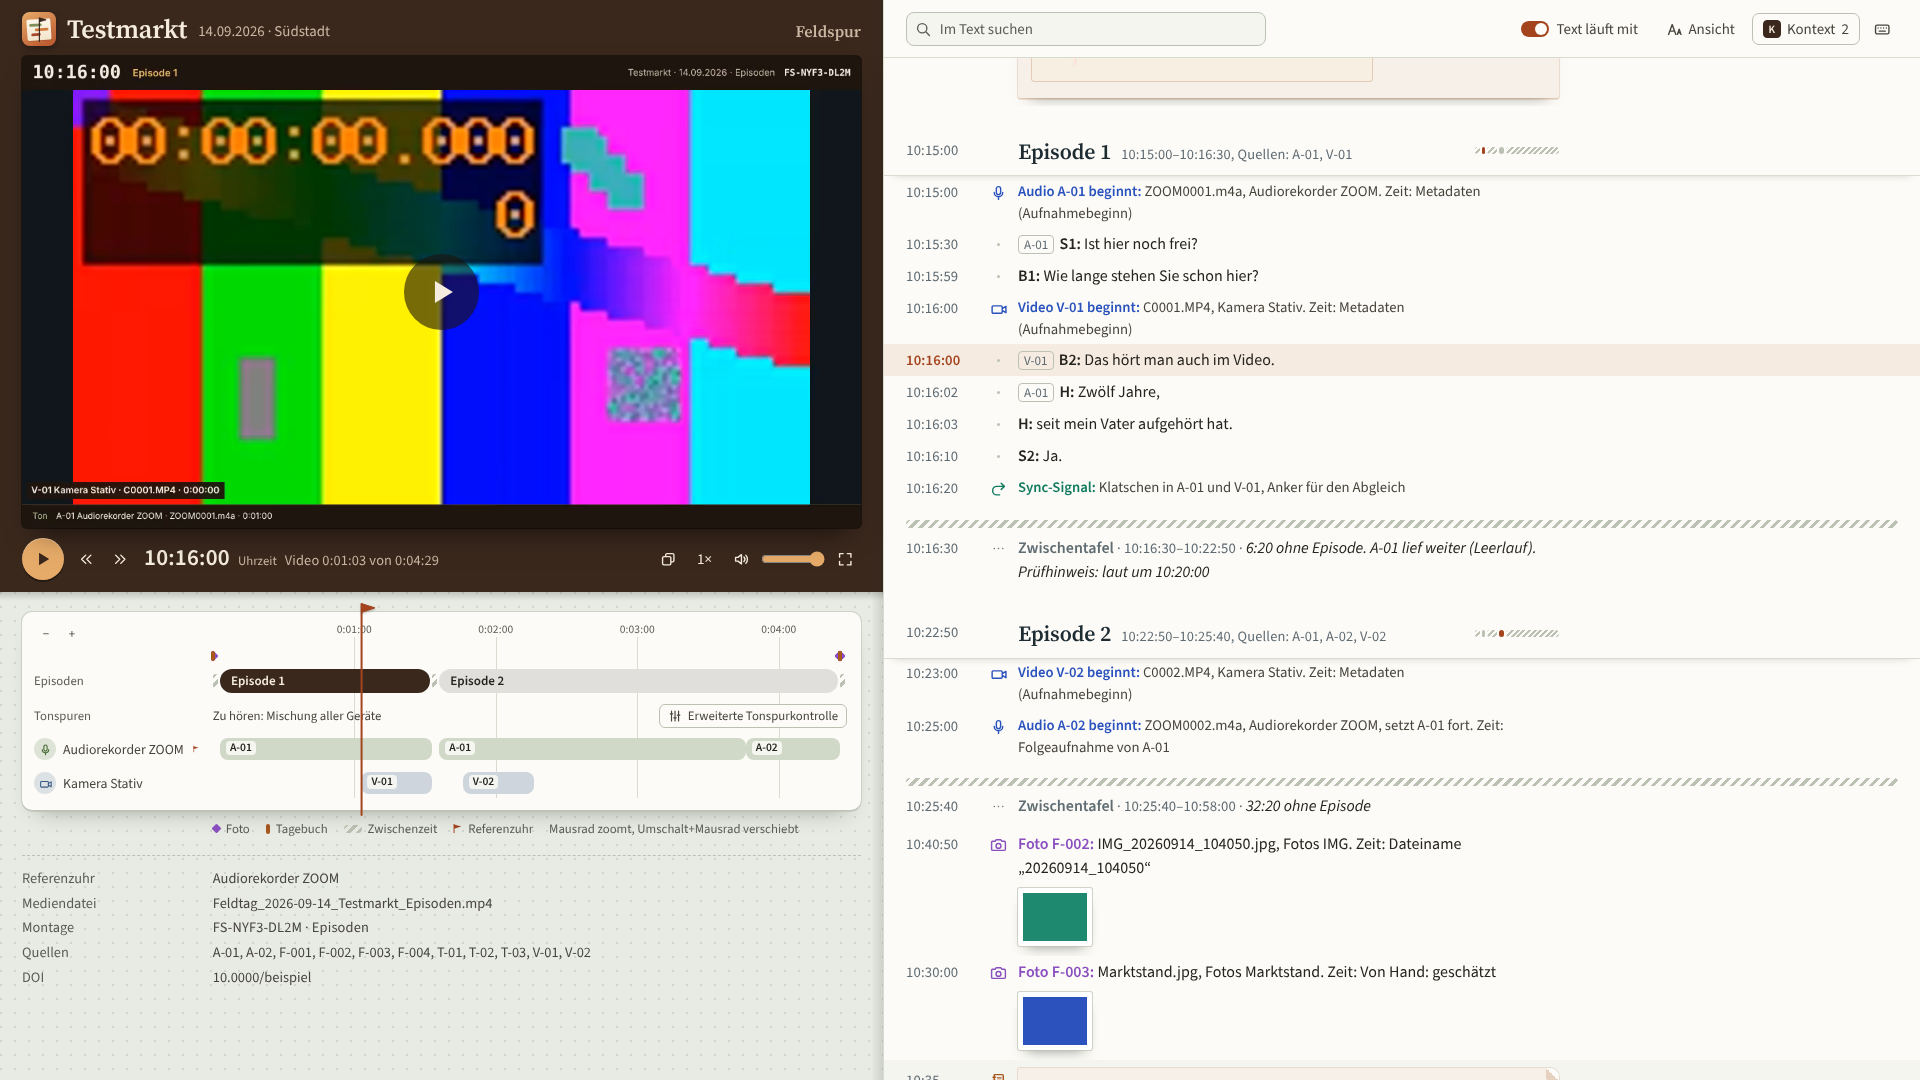
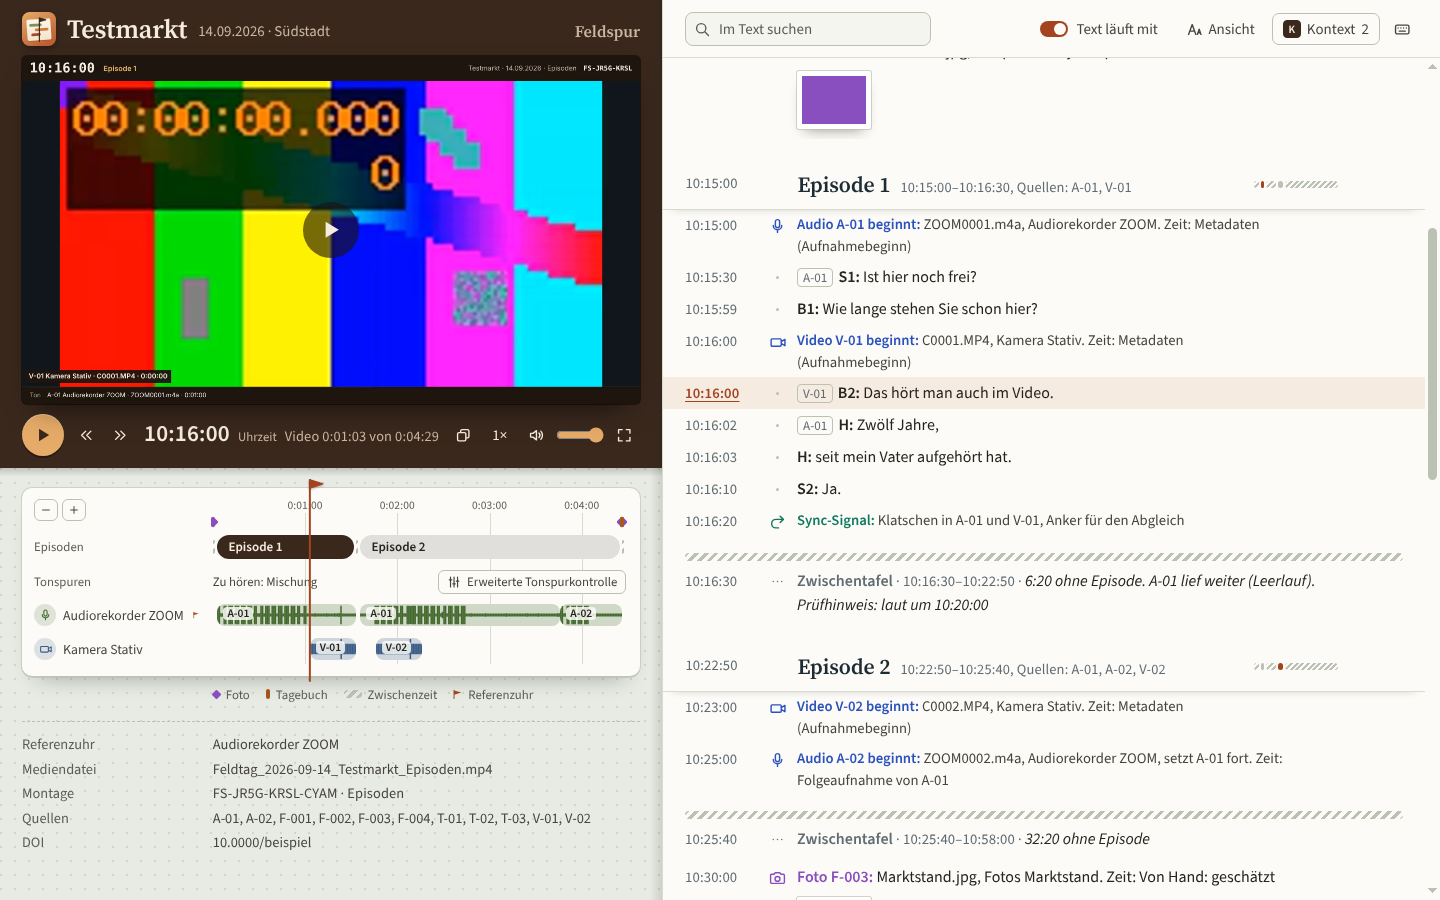
Bildschirmfotos im Handbuch und README erneuert (#179)
Closes #178

## Was sich ändert

- Alle 17 Bildschirmfotos in `handbuch/bilder` und die beiden
README-Bilder (`docs/zeitachse.png`, `docs/tagebuch.png`) sind neu aus
der aktuellen App (v0.3.0-rc.3-Stand), einheitlich in 1920×1080. Die
drei Bilder, die bisher 1440×900 hatten, haben jetzt dieselbe Größe wie
die übrigen.
- Der Rauchtest blendet beim Fotografieren den Hinweis „Rückgängig
gemacht: …“ aus, damit er nicht in den Handbuchbildern steht.
- Das Viewer-Bild zeigt jetzt eine Zeile, zu der Video läuft (vorher
fiel der Klick auf eine Stelle mit nur Ton, das Video war schwarz).
- Vor dem Durchsehen-Bild scrollt der Rauchtest die Ansicht wieder nach
oben, damit Überschrift und Kontextleiste zu sehen sind.
- Texte im Handbuch unverändert; README.md neu erzeugt (keine
Textänderung). `docs/abgleichen.png` und `docs/import-ansicht.png`
werden nirgends verwendet und bleiben unangetastet.

## Vorher und nachher

![](https://raw.githubusercontent.com/pklaschka/feldspur/7f93c6f595a17ef729da1f03547968e7de091f9f/screenshots-178/vorher-nachher-1.png)

![](https://raw.githubusercontent.com/pklaschka/feldspur/7f93c6f595a17ef729da1f03547968e7de091f9f/screenshots-178/vorher-nachher-2.png)

![](https://raw.githubusercontent.com/pklaschka/feldspur/7f93c6f595a17ef729da1f03547968e7de091f9f/screenshots-178/vorher-nachher-3.png)

![](https://raw.githubusercontent.com/pklaschka/feldspur/7f93c6f595a17ef729da1f03547968e7de091f9f/screenshots-178/vorher-nachher-4.png)

## Bilder neu erzeugen
[…]

diff --git a/apps/desktop/test/smoke.e2e.ts b/apps/desktop/test/smoke.e2e.ts
@@ -70,7 +70,11 @@ try {
   const shot = async (suffix: string) => {
     if (!process.env.FELDSPUR_SCREENSHOT) return;
     await page.waitForTimeout(150);
-    await page.screenshot({ path: process.env.FELDSPUR_SCREENSHOT.replace(/\.png$/, `${suffix}.png`) });
+    // Hinweise wie „Rückgängig gemacht: …“ gehören nicht ins Handbuchbild.
+    await page.screenshot({
+      path: process.env.FELDSPUR_SCREENSHOT.replace(/\.png$/, `${suffix}.png`),
+      style: "[data-testid='undo-toast'] { visibility: hidden !important; }",
+    });
   };
 
   const sessionId = await ablauf("Einen Einsatz anlegen und Dateien einsammeln", async () => {
@@ -477,10 +481,16 @@ try {
     await shot("-wiedergabe");
     await page.getByRole("button", { name: "Abbrechen" }).click();
     await page.getByRole("button", { name: "Schließen" }).click();
-    await page.mouse.move(xAt(10 * 60 + 16), box.y + 30 + 40 + 26);
+    // Fürs Bild wieder nach oben, damit die Überschrift zu sehen ist (die Klicks oben scrollen die Ansicht).
+    await page
+      .locator("canvas")
+      .evaluate((c) => c.closest(".overflow-auto")?.scrollTo({ top: 0, behavior: "instant" }));
+    await page.waitForTimeout(200);
+    const top = (await page.locator("canvas").boundingBox())!;
+    await page.mouse.move(xAt(10 * 60 + 16), top.y + 30 + 40 + 26);
     await shot("-durchsehen");
     // Die Karte zur untersten Spur darf nicht am Rand der Zeitachse abgeschnitten werden.
-    await page.mouse.move(xAt(10 * 60 + 11.5), box.y + 30 + 40 + (tracks.length - 0.5) * trackH);
+    await page.mouse.move(xAt(10 * 60 + 11.5), top.y + 30 + 40 + (tracks.length - 0.5) * trackH);
     const card = page.getByTestId("timeline-hover");
     await card.waitFor();
     const cardBox = (await card.boundingBox())!;
@@ -490,7 +500,7 @@ try {
       cardBox.y >= 0 &&
       cardBox.x + cardBox.width <= view.width &&
       cardBox.y + cardBox.height <= view.height;
-    const outsideAxis = cardBox.y + cardBox.height > box.y + box.height;
+    const outsideAxis = cardBox.y + cardBox.height > top.y + top.height;
     console.log(
       `Zeitachsen-Karte: ${inWindow ? "ganz im Fenster" : "abgeschnitten"}${outsideAxis ? ", ragt über die Achse hinaus" : ""}`,
     );
@@ -1152,7 +1162,9 @@ try {
     if (await viewer.locator("#ton-btn").isHidden()) throw new Error("Viewer: Knopf für die Tonspuren fehlt");
     if (viewerErrors.length) throw new Error(`Viewer: ${viewerErrors.join("; ")}`);
     if (process.env.FELDSPUR_SCREENSHOT) {
-      await viewer.waitForTimeout(500);
+      // Fürs Bild eine Zeile, zu der auch Video läuft.
+      await lines.filter({ hasText: "Das hört man auch im Video" }).click();
+      await viewer.waitForTimeout(800);
       await viewer.screenshot({ path: process.env.FELDSPUR_SCREENSHOT.replace(/\.png$/, "-viewer.png") });
     }
     await viewer.close();
